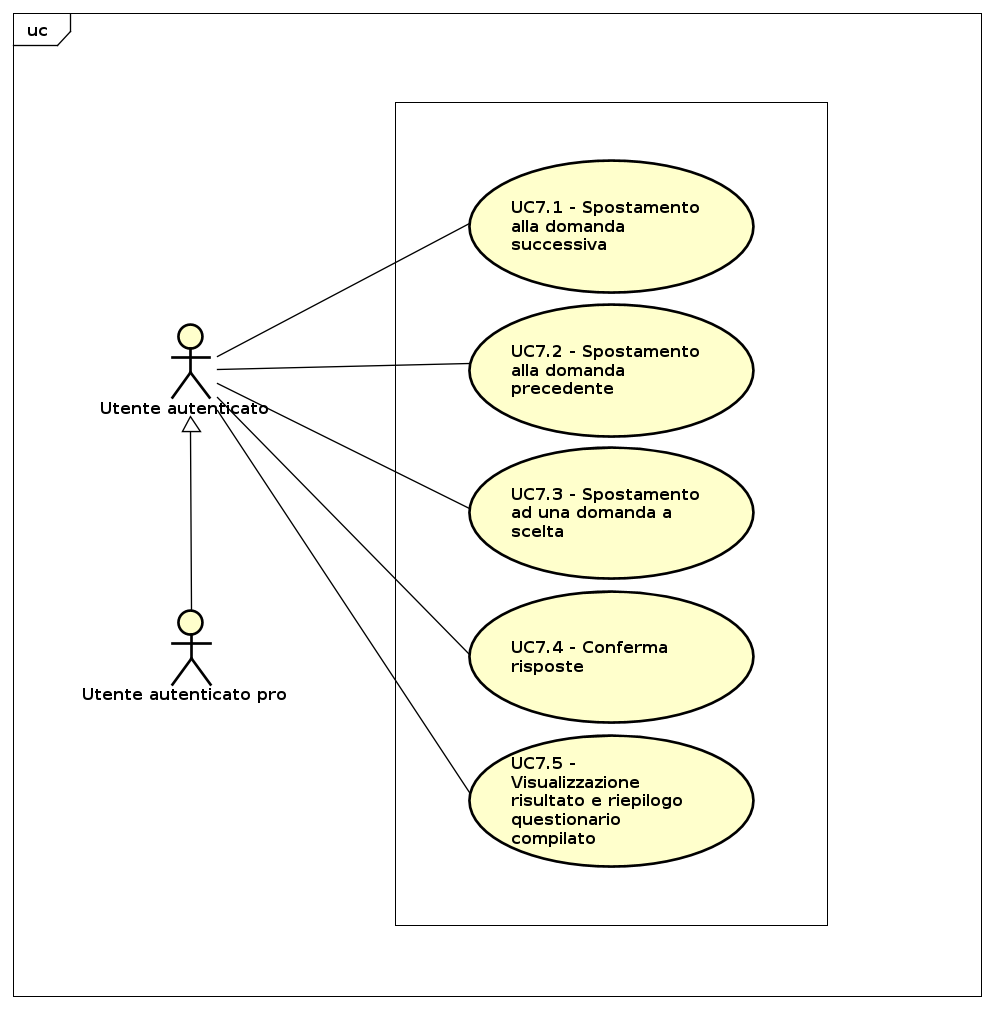
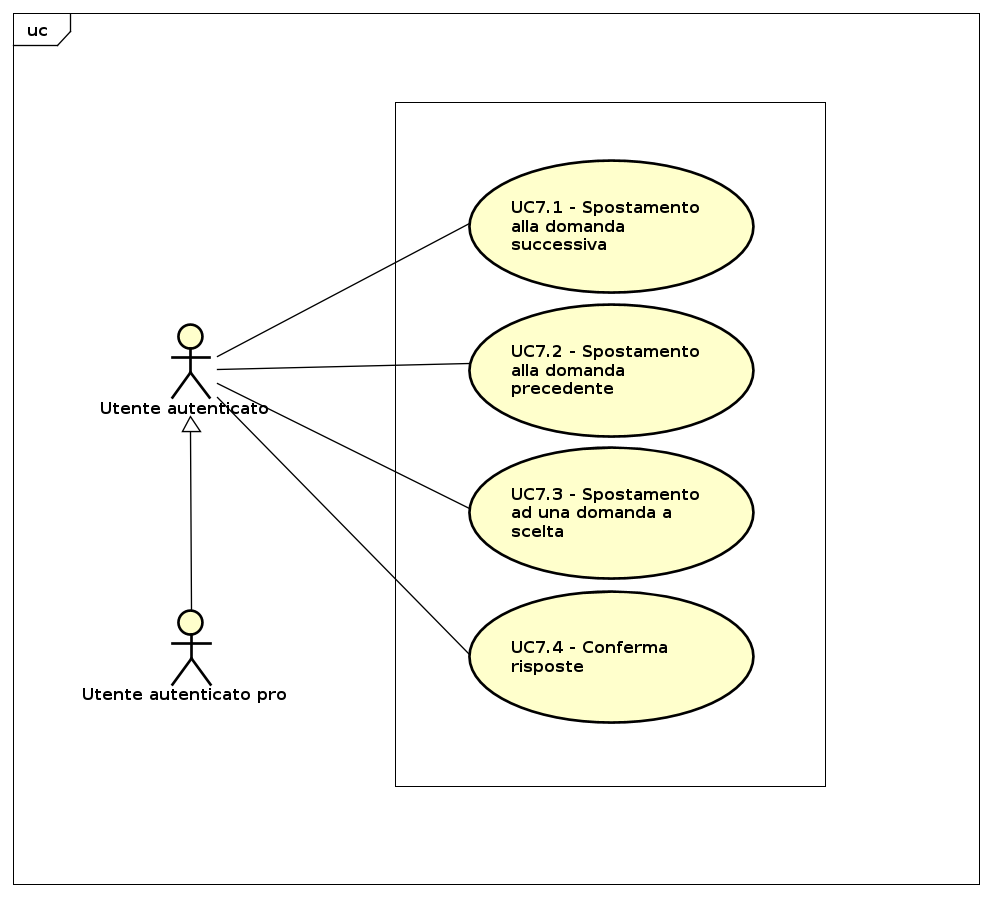
tolta visualizzazione risultato in UC7 e UML relativo

diff --git a/RR/AnalisiDeiRequisiti/sezioni/CasiD'uso/CasoD'usoUC7.tex b/RR/AnalisiDeiRequisiti/sezioni/CasiD'uso/CasoD'usoUC7.tex
@@ -17,8 +17,7 @@
 \item L'attore può passare alla domanda successiva (UC7.1);
 \item L'attore può passare alla domanda precedente (UC7.2);
 \item L'attore può passare ad una domanda a sua scelta (UC7.3);
-\item L'attore può confermare le risposte date alle domande (UC7.4);
-\item L'attore può visualizzare il risultato e il riepilogo del questionario svolto (UC7.5).
+\item L'attore può confermare le risposte date alle domande (UC7.4).
 \end{itemize}
 \item\textbf{Scenari alternativi}: nel caso in cui il questionario non è stato abilitato compare una schermata di attesa e l'attore può annullare l'operazione tornando alla schermata precedente.
 \end{itemize}
@@ -59,17 +58,7 @@
 \item\textbf{Attori}: utente autenticato, utente autenticato pro;
 \item\textbf{Descrizione}: l'attore può confermare le domande a cui ha dato una risposta;
 \item\textbf{Precondizione}: l'attore sta compilando un questionario;
-\item\textbf{Postcondizione}: l'attore ha confermato le risposte date;
+\item\textbf{Postcondizione}: l'attore ha confermato le risposte date e il sistema visualizza una schermata contenente il riepilogo del questionario svolto e un voto;
 \item\textbf{Scenario principale}: l'attore che ha finito di rispondere a tutte le domande conferma le risposte date;
 \item\textbf{Scenari alternativi}: l'attore conferma le risposte date anche se non le ha compilate tutte, accettando il fatto che queste verranno considerate sbagliate.
-\end{itemize}
-
-\subsubsection{Caso d'uso UC7.5: Visualizzazione risultato e riepilogo questionario compilato}
-\label{UC7.5}
-\begin{itemize}
-\item\textbf{Attori}: utente autenticato, utente autenticato pro;
-\item\textbf{Descrizione}: l'attore, dopo aver finito di compilare il questionario, può visualizzare una schermata contenente il riepilogo delle risposte date alle domande. Sarà possibile vedere quali di queste sono corrette e quali no e verrà inoltre data una valutazione complessiva;
-\item\textbf{Precondizione}: l'attore ha finito di compilare il questionario;
-\item\textbf{Postcondizione}: il sistema visualizza una schermata contenente il riepilogo del questionario svolto e un voto;
-\item\textbf{Scenario principale}: l'attore visualizza che voto gli è stato dato e a quali domande ha risposto correttamente o meno.
 \end{itemize}
